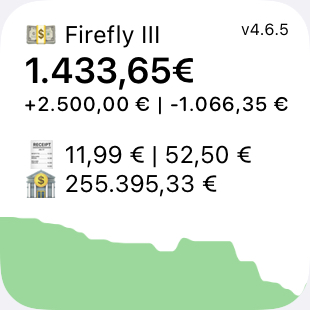
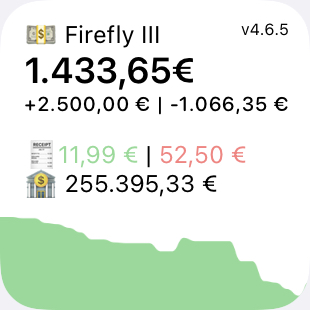
added green and red for paid and unpaid bills

Changed region(s): [[0.1742, 0.4645, 0.8129, 0.5516]]

diff --git a/fireflyiii-widget.js b/fireflyiii-widget.js
@@ -111,19 +111,27 @@ async function createWidget() {
 
     dataWidget.addSpacer(12);
     
-    let invoices = "🧾 0 €";
-    if(BILLS_PAID_KEY in balance) {
-      invoices = "🧾 " + balance[BILLS_PAID_KEY].value_parsed;
-    }
-    if (BILLS_UNPAID_KEY in balance) {
-      invoices += " | " + balance[BILLS_UNPAID_KEY].value_parsed;
-    } else {
-      invoices += " | 0 €";
-    }
     let invoiceRow = dataWidget.addStack();
-    let invoiceText = invoiceRow.addText(invoices); 
-    invoiceText.font = Font.regularSystemFont(12);
-     
+    let invoiceIcon = invoiceRow.addText("🧾");
+    invoiceIcon.font = Font.regularSystemFont(12);
+    let invoicesPaid;
+    if(BILLS_PAID_KEY in balance) {
+      invoicesPaid = invoiceRow.addText(balance[BILLS_PAID_KEY].value_parsed);
+    } else {
+      invoicesPaid = invoiceRow.addText("- €");
+    }
+    invoicesPaid.font = Font.regularSystemFont(12);
+    invoicesPaid.textColor = new Color("16b82c", .5);
+    let invoiceSeparator = invoiceRow.addText(" | ");
+    invoiceSeparator.font = Font.regularSystemFont(12);
+    let invoicesUnpaid;
+    if (BILLS_UNPAID_KEY in balance) {
+      invoicesPaid = invoiceRow.addText(balance[BILLS_UNPAID_KEY].value_parsed);
+    } else {
+      invoicesPaid = invoiceRow.addText("- €");
+    }
+    invoicesPaid.font = Font.regularSystemFont(12);
+    invoicesPaid.textColor = new Color("d60000", .5)
     let worthText = dataWidget.addStack().addText("🏦 " + (NET_WORTH_KEY in balance ? balance[NET_WORTH_KEY].value_parsed : "- €"));
     worthText.font = Font.regularSystemFont(12);
     
